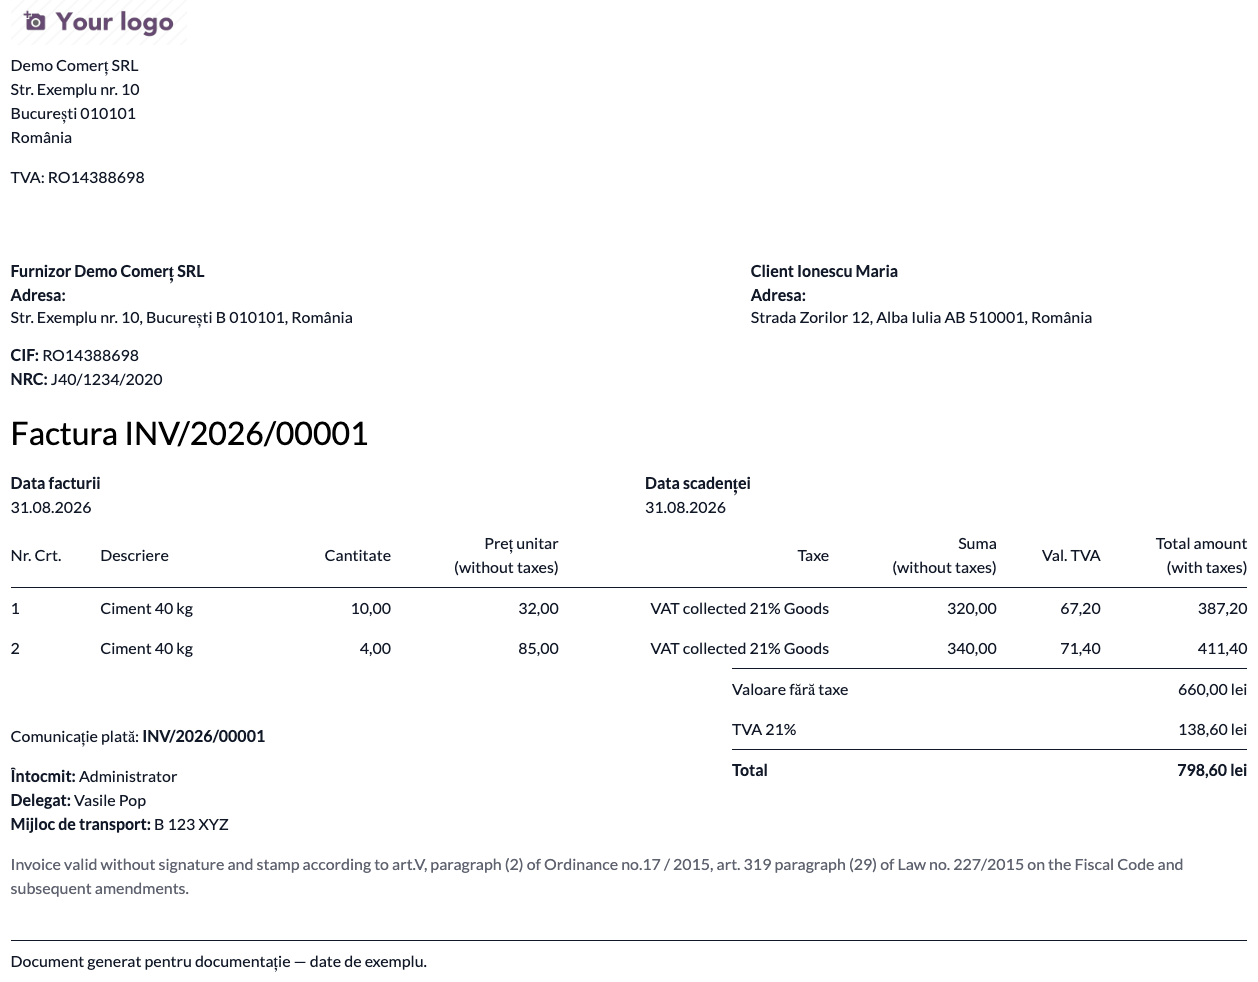
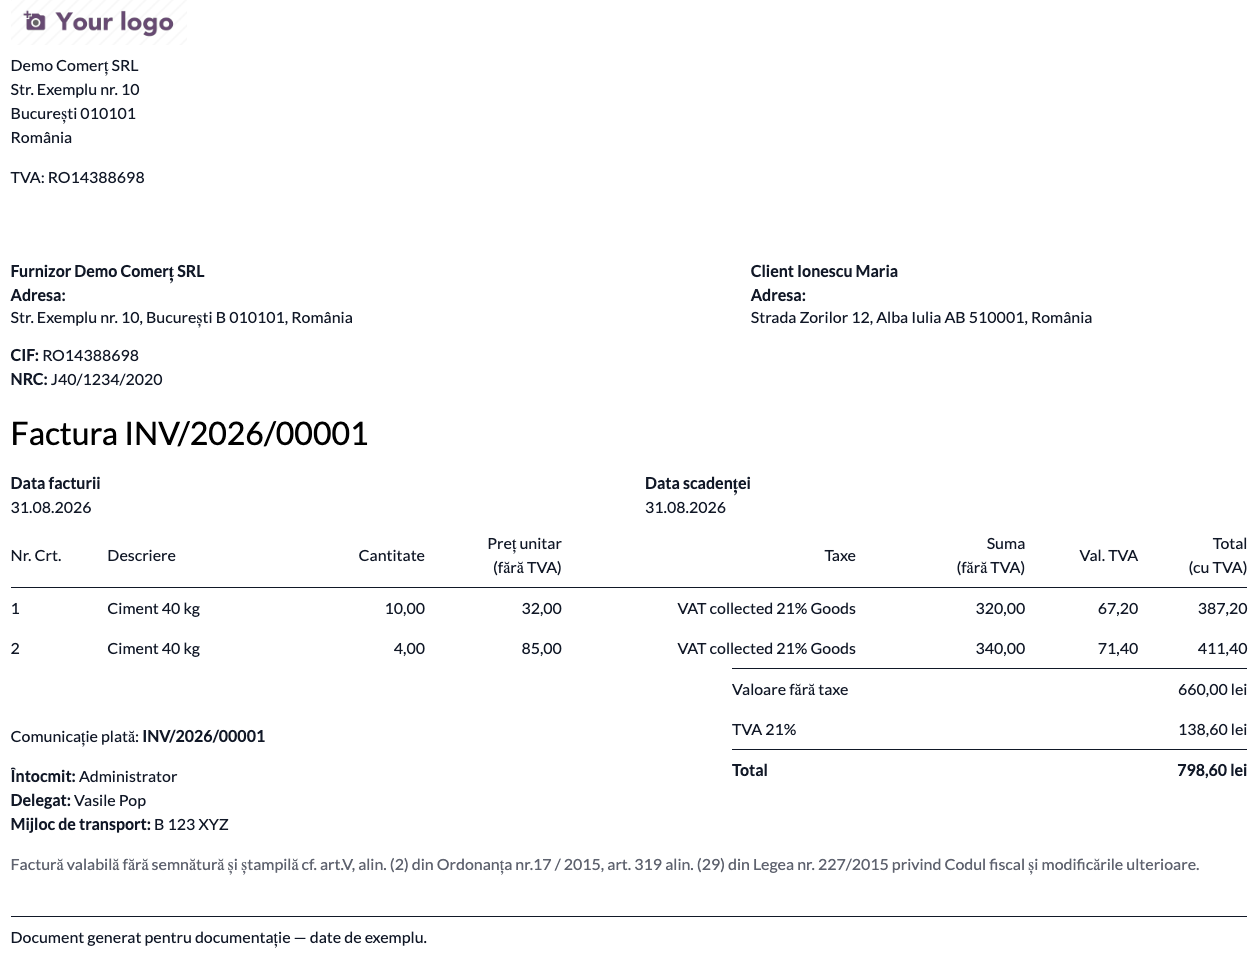
[FIX] l10n_ro_invoice_report: traduceri care existau, dar nu se aplicau
Documentul tipărit ieșea parțial în engleză — „(without taxes)", „Total amount
(with taxes)", textul legal de la final — deși ro.po părea complet. Cauza nu e
lipsa traducerii, ci potrivirea: Odoo aplică traducerile de șablon prin potrivire
EXACTĂ a msgid-ului, cu newline-urile și indentarea din interiorul textului.
Șablonul fusese reindentat, iar ro.po a rămas pe forma veche.

Textul legal era chiar tradus în fișier, cu 24 de spații de indentare, în timp ce
șablonul cere 20 — traducere fantomă: prezentă, corectă ca text, inaplicabilă.
Nimic nu semnalează situația: nici pre-commit, nici testele, nici numărul de
intrări din po, care arăta 143.

Măsurat pe forma curentă a șablonului: 127 de stringuri, 97 potrivite, 30
netraduse. Completate cele care ajung pe documente: (fără TVA), Total (cu TVA),
AWB, CIF, NRC, Transfer, Contact, Note, unități, plus textul legal resincronizat.
Intrarea fantomă a fost eliminată, ca să nu inducă în eroare la următoarea
verificare. Restul netraduse sunt etichete tehnice sau date demo.

Fisa consultant: corectată o afirmație greșită — termenii rămași în engleză NU
veneau din l10n_ro_report_common (verificat: acel modul e tradus 14/14) — și
adăugată nota despre potrivirea exactă, plus rândul pentru numele taxei, care e
dată de configurare, nu string traductibil.

Capturile 02 și 03 regenerate: factura tipărită arată acum documentul integral în
română.

Verificat prin randare reală, nu doar prin diff de fișiere: 25 teste, 0 failed.

diff --git a/l10n_ro_invoice_report/readme/FISA_CONSULTANT.md b/l10n_ro_invoice_report/readme/FISA_CONSULTANT.md
@@ -135,7 +135,8 @@ Ce rămâne manual: completarea delegatului și a mijlocului de transport, compl
 | Delegatul nu apare pe documentul tipărit | Opțiunea „Afișează delegatul pe factură" e dezactivată în setări | Activați opțiunea în setările de facturare, per companie |
 | Dispoziția de plată nu are cod de formular, casierie sau semnături | Plata e pe un jurnal de bancă, nu de casă | Corect — elementele de casierie se tipăresc doar pentru jurnale de casă |
 | Rubrica „Casieria" afișează un nume în engleză | Numele jurnalului de casă provine din datele de configurare | Redenumiți jurnalul de casă |
-| Termeni în engleză rămași pe factură (ex. „without taxes", textul legal) | Provin din alt modul al localizării (`l10n_ro_report_common`), nu din acesta | Se completează în modulul respectiv; nu se rezolvă din setările acestui modul |
+| Numele taxei apare în engleză pe factură (ex. „VAT collected 21% Goods") | Este denumirea taxei din configurare, nu un text traductibil | Redenumiți taxa în planul de conturi al companiei |
+| Termeni în engleză rămași pe un document, deși `i18n/ro.po` pare complet | Traducerea există, dar `msgid`-ul nu se mai potrivește cu șablonul: acesta a fost reindentat, iar Odoo aplică traducerile prin potrivire exactă, spațiul alb inclus. Nimic nu semnalează problema | Reexportați `.pot` și resincronizați `ro.po` pe forma curentă a `msgid`-urilor |
 
 ## 10. Capturi de ecran
 
@@ -155,6 +156,13 @@ Regenerare:
 ```
 
 > Rulați pe o bază **curată**, cu doar aceste module instalate. Pe o bază cu suita completă, randarea ecranelor grele depășește timpul de așteptare al capturii.
+
+> **Notă pentru cine întreține traducerile.** Odoo aplică traducerile de șablon prin potrivire
+> **exactă** a `msgid`-ului, inclusiv newline-urile și indentarea din interiorul textului. Dacă
+> șablonul e reindentat fără a resincroniza `ro.po`, traducerea rămâne în fișier, corectă ca
+> text, dar nu se mai aplică: documentul iese în engleză, iar fișierul pare complet. Verificarea
+> utilă e compararea `msgid`-urilor din `.pot`-ul reexportat cu cele din `ro.po`, nu numărarea
+> intrărilor care au traducere.
 
 ## 11. Observații pentru manual
 
